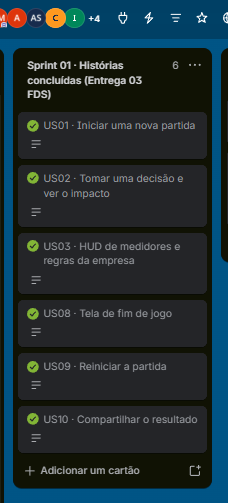
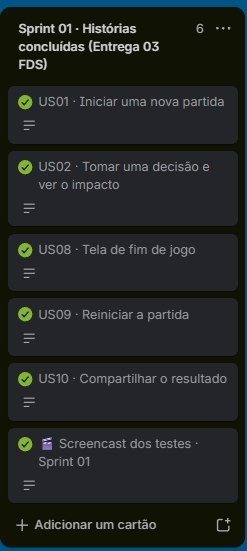
docs(readme): atualiza print da Sprint 01 com 5 historias e card do screencast

diff --git a/README.md b/README.md
@@ -196,10 +196,10 @@ Nesta etapa a equipe saiu do planejamento e passou a entregar software funcionan
 
 <br>
 
-**Sprint 01 no board:** as 5 histórias concluídas ficam na lista *Sprint 01 · Histórias concluídas (Entrega 03 FDS)*.
+**Sprint 01 no board:** as 5 histórias concluídas ficam na lista *Sprint 01 · Histórias concluídas (Entrega 03 FDS)*, junto com o card do screencast dos testes.
 
 <p align="center">
-  <img src="./Documenta%C3%A7%C3%A3o/prints/sprint1.png" alt="Lista Sprint 01 no board do Trello com as histórias US01, US02, US08, US09 e US10 concluídas" width="260">
+  <img src="./Documenta%C3%A7%C3%A3o/prints/sprint1.png" alt="Lista Sprint 01 no board do Trello com as histórias US01, US02, US08, US09 e US10 concluídas e o card do screencast dos testes" width="260">
 </p>
 
 **Backlog e semanas de trabalho:** cada coluna é uma semana do projeto, do kick-off até a semana atual.
@@ -213,7 +213,7 @@ Nesta etapa a equipe saiu do planejamento e passou a entregar software funcionan
 
 <br>
 
-Os testes de sistema foram feitos de forma manual, jogando uma partida completa no `jogo.exe` e gravando a tela. Cada caso abaixo corresponde a uma história da Sprint 01, e o link do vídeo também está anexado nos cards das histórias no board, na lista Sprint 01.
+Os testes de sistema foram feitos de forma manual, jogando uma partida completa no `jogo.exe` e gravando a tela. Cada caso abaixo corresponde a uma história da Sprint 01, e todos aparecem no [screencast dos testes](https://youtu.be/PerQLox7oNw). O vídeo também está anexado no card *🎬 Screencast dos testes · Sprint 01*, na lista Sprint 01 do board.
 
 | ID | História | Pré-condição | Ação | Resultado esperado | Resultado |
 |---|---|---|---|---|---|
